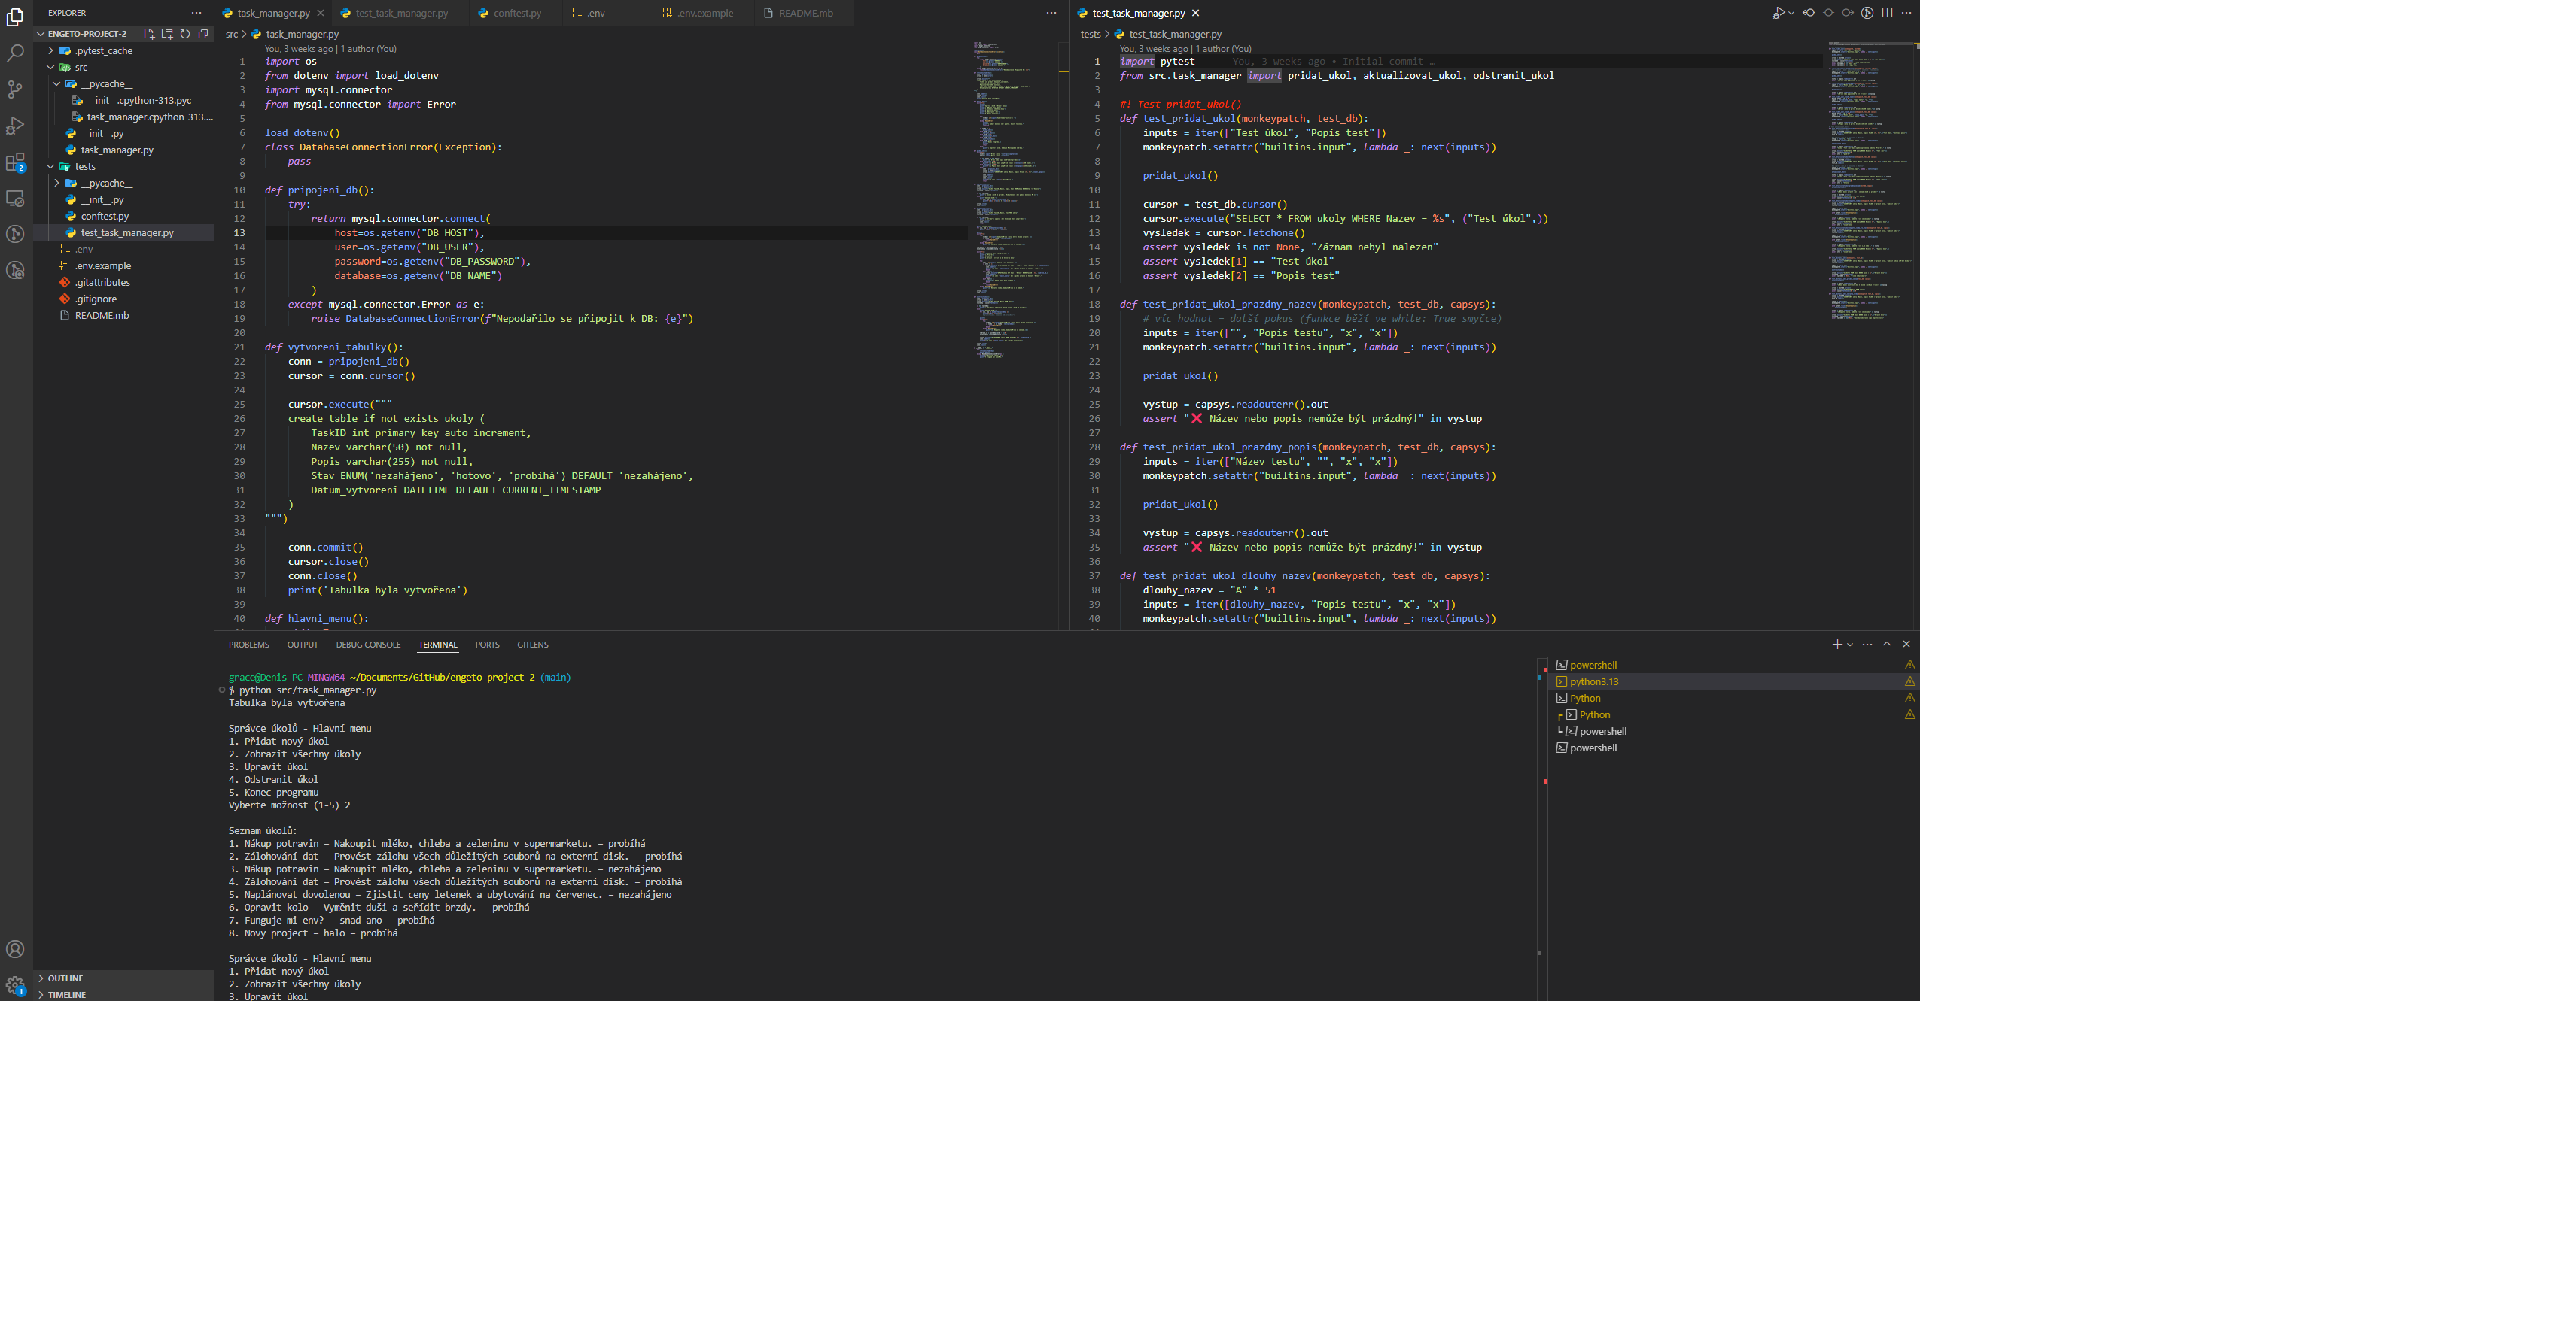
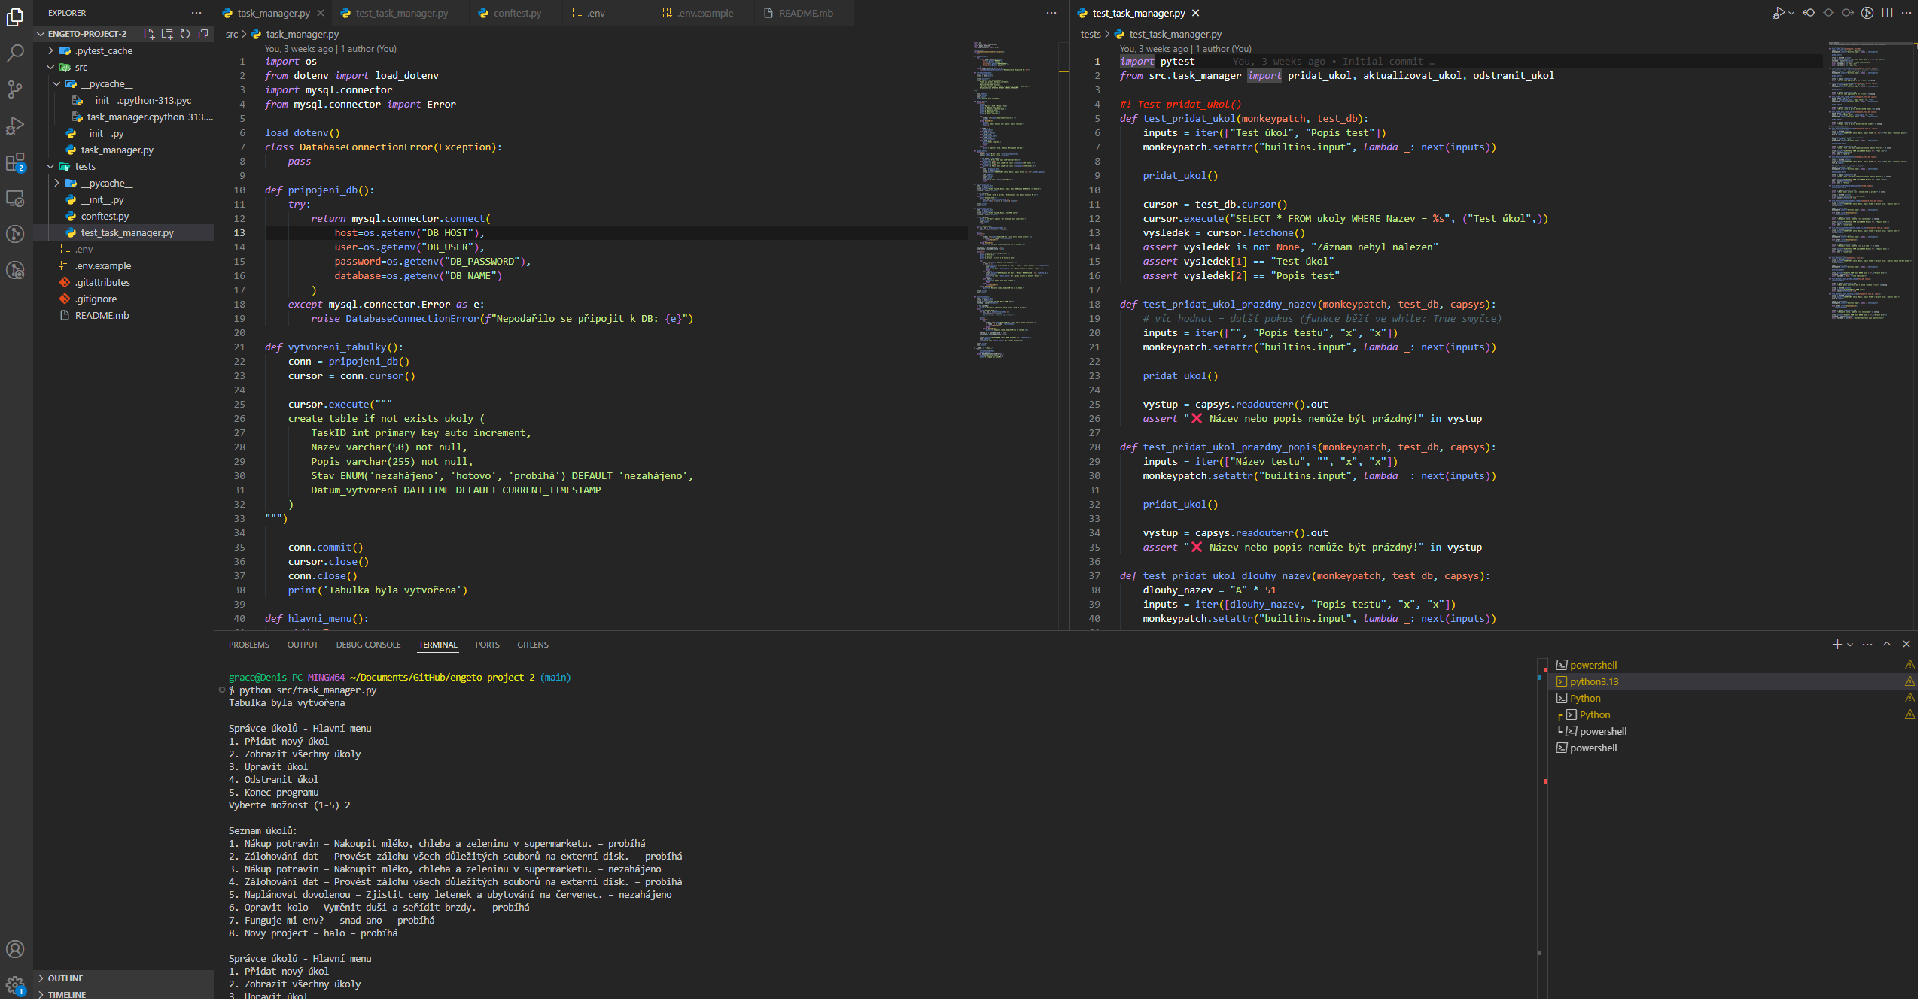
Uprava fotky terminalové aplikace

diff --git a/app/components/Projects.jsx b/app/components/Projects.jsx
@@ -84,8 +84,8 @@ export default function Projects() {
       >
         <div className="pt-2 ">
           <Image
-            src={"/img/web-previews/Empty.png"}
-            alt={`Náhled konzolové aplikace`}
+            src={"/img/web-previews/python_pytest.png"}
+            alt={`Náhled konzolové aplikace a pytest testů`}
             width={200}
             height={48}
             className="m-0 border-2 rounded-md border-gray-700 md:hover:transform md:hover:scale-105 md:hover:duration-500 md:hover:ease-in-out"
